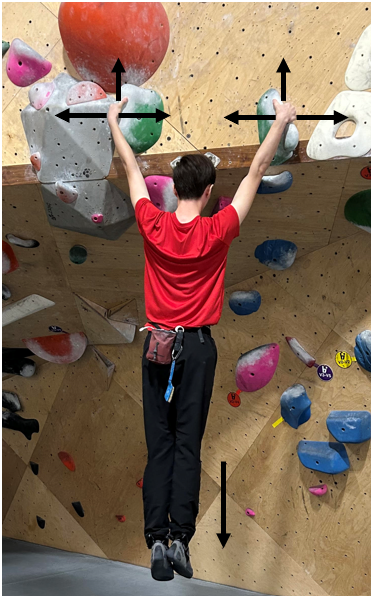
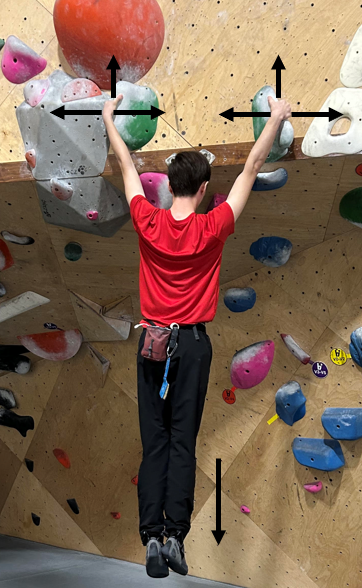
Added remaining information

diff --git a/techniques.html b/techniques.html
@@ -74,9 +74,103 @@
         <main>
             <h1 class="purple">Techniques</h1>
             <br>
+
+            <h3 class="container">Bicycle</h3>
             <p class="container">
-                <!--Add-->
+                Doing a toe hook and standing on a hold normally at the same time. This is mostly seen on overhang climbs.
             </p>
+
+            <h3 class="container">Bridge</h3>
+            <p class="container">
+                Placing one’s feet on two different walls to hold oneself up.
+            </p>
+
+            <h3 class="container">Cross through</h3>
+            <p class="container">
+                Crossing an arm or a leg through the other to reach a hold.
+            </p>
+
+            <h3 class="container">Drop knee</h3>
+            <p class="container">
+                Twisting one’s knee downwards to bring the climber closer to the wall and provide more reach for the arm on the same side as the knee doing the drop knee.
+            </p>
+
+            <h3 class="container">Flag</h3>
+            <p class="container">
+                Positioning one’s leg to balance themselves on the climb.
+            </p>
+
+            <h3 class="container">Gaston</h3>
+            <p class="container">
+                Pulling outwards to hold oneself up because the grabbable part of two holds are faced towards each other.
+            </p>
+
+            <h3 class="container">Hand jamming</h3>
+            <p class="container">
+                Sticking one’s hand in between two surfaces while making different shapes with the hand inside to create friction.
+            </p>
+
+            <h3 class="container">Heel hook</h3>
+            <p class="container">
+                Hooking the heel part of the foot on a hold to secure themselves.
+            </p>
+
+            <h3 class="container">Knee bar</h3>
+            <p class="container">
+                Sticking one’s knee into a hold to add another point of contact, which provides more security for the climber.
+            </p>
+
+            <h3 class="container">Match</h3>
+            <p class="container">
+                Placing both hands or both feet on the same hold.
+            </p>
+
+            <h3 class="container">Rock over</h3>
+            <p class="container">
+                Shifting weight over a foot on a foothold.
+            </p>
+
+            <h3 class="container">Side pull</h3>
+            <p class="container">
+                Pulling inwards to hold oneself up because the grabbable part of two holds are faced away from each other.
+            </p>
+
+            <h4 class="container underline normal">The physics behind the side pull:</h3>
+            <p class="container-image container">
+                <img src="/photos/techniques/sidepull_with_vectors.png" alt="Sidepull with force vectors" class="r-image">
+                <img src="/photos/techniques/sidepull_free_body_diagram.png" alt="Free body diagram showing all the forces and their labels" class="r-image">
+            </p>
+
+            <h4 class="container underline normal">The different forces involved</h5>
+            <div class="container">
+                <p>
+                    The force applied (A<sub>L</sub> and A<sub>R</sub>) from the hands results in two types of forces: normal force (N<sub>L</sub> and N<sub>R</sub>) and friction (F<sub>L</sub> and F<sub>R</sub>). 
+                    Normal force (N<sub>L</sub> and N<sub>R</sub>) is the force applied from the hold against the hand. 
+                    It is equivalent to the amount of force applied from the hand (N<sub>L</sub> = F<sub>L</sub> and N<sub>R</sub> = F<sub>R</sub>). 
+                    Friction (F<sub>L</sub> and F<sub>R</sub>) is the force that opposes movement when two surfaces are in contact, which happens between the hands and the holds. 
+                    The movement friction opposes is gravity pulling the body downwards, which is known as the weight force (W). 
+                    The sum of the friction force from both hands and holds is enough to resist the weight force and therefore keeps the body stable or in other words in static equilibrium (F<sub>L</sub> + F<sub>R</sub> = W). 
+                </p>
+            </div>
+            <h4 class="container underline normal">How friction is increased</h5>
+            <div class="container">
+            <p>
+                If your body starts slipping down because the weight force is greater than the total friction force (W > F<sub>L</sub> + F<sub>R</sub>), then you can increase the friction force (F<sub>L</sub> and F<sub>R</sub>) by applying more force (A<sub>L</sub> and A<sub>R</sub>) to the holds. 
+                This is because the friction force (F<sub>L</sub> and F<sub>R</sub>) increases as the normal force increases (N<sub>L</sub> and N<sub>R</sub>). 
+                The normal force is always equivalent to the force being applied to the surface (N<sub>L</sub> = F<sub>L</sub> and N<sub>R</sub> = F<sub>R</sub>) and therefore increases as more force is applied to the surface.
+            </p>
+            </div>
+
+            <h3 class="container">Smear</h3>
+            <p class="container">
+                Rubbing one’s foot on a hold to create more friction and establish a secure foot placement.
+            </p>
+
+            <h3 class="container">Toe hook</h3>
+            <p class="container">
+                Hooking the toe part of the foot in a hold to secure themselves.
+            </p>
+
 
             <p class="disclaimer">
                 <span class="red bold">Disclaimer:</span>

diff --git a/exercises.html b/exercises.html
@@ -74,9 +74,65 @@
         <main>
             <h1 class="purple">Exercises</h1>
             <br>
-            <p class="container">
 
+            <h3 class="container">Brush</h3>
+            <p class="container">
+                The brush is used to remove chalk from holds and make it easier to hold onto. 
+                Indoor climbing gyms may have poles with brushes attached to them for holds higher up. 
+                Smaller brushes can be bought to remove chalk from climbing shoes or holds closer to the ground.
             </p>
+            <div class="container">
+                <ul>
+                    <li>
+                        Chalk is used on the hands because chalk applies more friction than sweat. 
+                        However, when it comes to holds or climbing shoes, chalk applies less friction than the sandpaper texture of a hold or the rubber from a climbing shoe. 
+                        This is why climbers brush chalk from holds and climbing shoes while still using chalk for their hands.
+                    </li>
+                </ul>    
+            </div>
+
+            <h3 class="container">Chalk bag</h3>
+            <p class="container">
+                A bag to hold a climber’s chalk.
+            </p>
+
+            <h3 class="container">Chalk</h3>
+            <p class="container">
+                Helps absorb sweat from the hands so that the climber can apply more friction. There are different types of chalk such as blocks, loose, liquid, and chalk balls. 
+            </p>
+            <div class="container">
+                <ul>
+                    <li>
+                        <span class="underline">Blocks:</span> A literal block of chalk. 
+                        Climbers can break it down into their preferred consistency. 
+                    </li>
+                    <li>
+                        <span class="underline">Loose:</span> Already broken-down chalk. 
+                    </li>
+                    <li>
+                        <span class="underline">Liquid:</span> Chalk in a liquid form. 
+                        When it is squeezed and spread in a climber’s hands, it starts to dry. 
+                    </li>
+                    <li>
+                        <span class="underline">Chalk balls:</span> A pouch with chalk in it. 
+                        Chalk is not spilled from the pouch easily, which makes it a cleaner option. 
+                        However, it is harder to cover a climber’s hands entirely. 
+                    </li>
+                </ul>
+            </div>
+
+            <h3 class="container">Climbing tape</h3>
+            <p class="container">
+                A type of tape wrapped around fingers to either cover skin or protect it from tearing. 
+                This may also be used over bandages to secure them to the body while climbing.
+            </p>
+
+            <h3 class="container">Harness</h3>
+            <p class="container">
+                A piece of equipment that goes around the waist and legs. 
+                Climbers connect rope or a tether to it for auto-belay and belay climbs.
+            </p>
+
 
             <p class="disclaimer">
                 <span class="red bold">Disclaimer:</span>

diff --git a/styles.css b/styles.css
@@ -73,6 +73,14 @@ h1 {
     font-size: 10px;
 }
 
+.underline {
+    text-decoration-line: underline;
+}
+
+.normal {
+    font-weight: normal;
+}
+
 /* Miscellaneous */
 
 .logo {
@@ -80,7 +88,7 @@ h1 {
 }
 
 .r-image {
-    max-width: 350px !important;
+    max-width: 300px !important;
     width: 100% !important;
     height: auto !important;
 }
